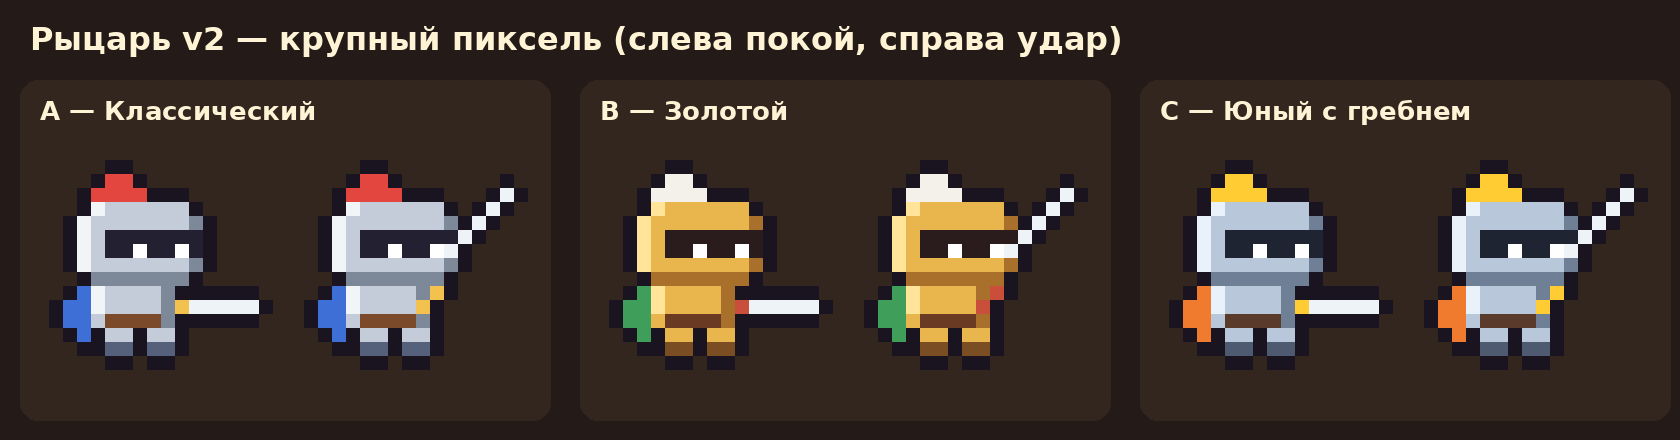
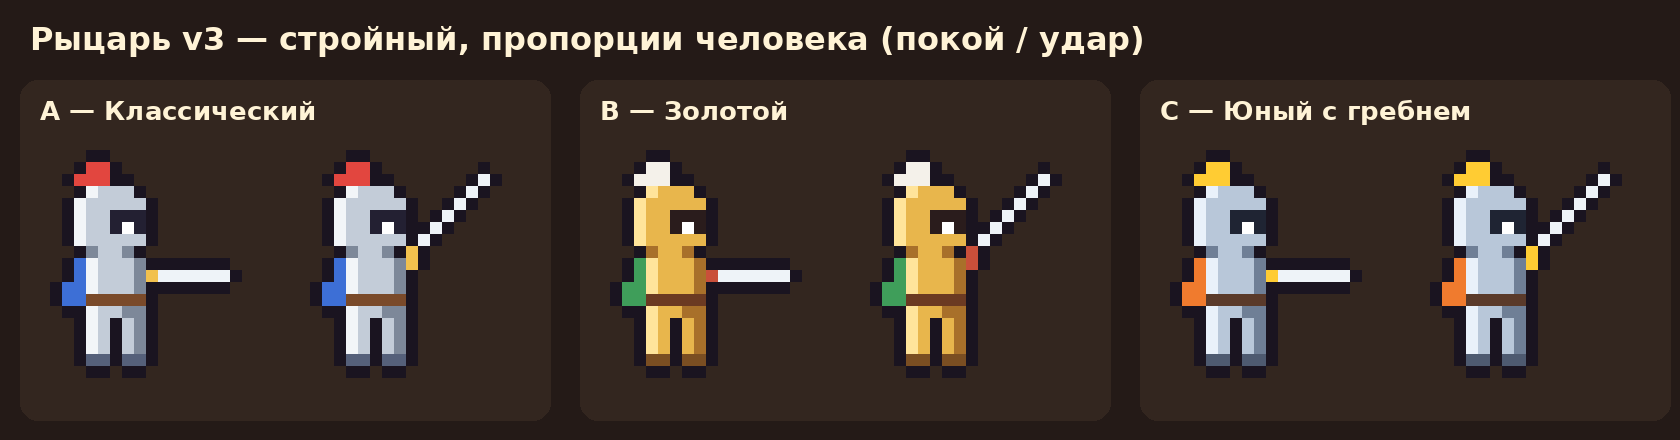
Concepts v3: slimmer human-proportioned knight, no-blush slimes, gold king
Claude-Session: https://claude.ai/code/session_01FaCWm51cQX9fpGLfrEeguQ

diff --git a/tools/concepts.py b/tools/concepts.py
@@ -47,34 +47,42 @@ def up(img, s):
 
 # ---------------------------------------------------------------- knight (13 px tall)
 KNIGHT_IDLE = [
-    "....pp..........",
-    "...pppp.........",
-    "...Lssssss......",
-    "..Lsssssssd.....",
-    "..Lsvvvvvvv.....",
-    "..Lsvvwvvwv.....",
-    "..Lsssssssd.....",
-    "...ddddddd......",
-    "..cLssssd.......",
-    ".ccLssssdhbbbbb.",
-    ".ccsBBBBd.......",
-    "..c.ss.ss.......",
-    "....gg.gg.......",
+    "..pp...........",
+    ".ppp...........",
+    "..Lsss.........",
+    ".Lsssss........",
+    ".Lssvvv........",
+    ".Lssvwv........",
+    ".Lsssss........",
+    "..dssd.........",
+    ".cLsssd........",
+    ".cLsssdhbbbbbb.",
+    "ccLsssd........",
+    "ccBBBBB........",
+    "..Lssdd........",
+    "..Ls.sd........",
+    "..Ls.sd........",
+    "..Ls.sd........",
+    "..gg.gg........",
 ]
 KNIGHT_SWING = [
-    "....pp..........",
-    "...pppp.......b.",
-    "...Lssssss...b..",
-    "..Lsssssssd.b...",
-    "..Lsvvvvvvvb....",
-    "..Lsvvwvvwb.....",
-    "..Lsssssssd.....",
-    "...ddddddd......",
-    "..cLssssdh......",
-    ".ccLssssh.......",
-    ".ccsBBBBd.......",
-    "..c.ss.ss.......",
-    "....gg.gg.......",
+    "..pp...........",
+    ".ppp.........b.",
+    "..Lsss......b..",
+    ".Lsssss....b...",
+    ".Lssvvv...b....",
+    ".Lssvwv..b.....",
+    ".Lsssss.b......",
+    "..dssd.h.......",
+    ".cLsssdh.......",
+    ".cLsssd........",
+    "ccLsssd........",
+    "ccBBBBB........",
+    "..Lssdd........",
+    "..Ls.sd........",
+    "..Ls.sd........",
+    "..Ls.sd........",
+    "..gg.gg........",
 ]
 KNIGHTS = {
     "A": ("A — Классический", dict(p="#e2463f", L="#f2f5f8", s="#c3ccd8", d="#7d8899", v="#232032", w="#ffffff",
@@ -106,7 +114,7 @@ SLIME_B = [
     "..xLxxxx..",
     ".xLxxxxxx.",
     ".xxexxexx.",
-    "xrxexxexrx",
+    "xxxexxexxx",
     "xxxxmmxxxx",
     "DDDDDDDDDD",
 ]
@@ -322,12 +330,12 @@ def scene(cfg, kn="A", seed=11):
 
     # ---- actors
     actors = Image.new("RGBA", (W, H), (0, 0, 0, 0))
-    actors.alpha_composite(knight(kn, "swing"), (44, 97))
-    actors.alpha_composite(slime("green"), (70, 103))
-    actors.alpha_composite(slime("pink"), (110, 71))
-    actors.alpha_composite(slime("purple"), (150, 103))
+    actors.alpha_composite(knight(kn, "swing"), (44, 93))
+    actors.alpha_composite(slime("green", "B"), (70, 102))
+    actors.alpha_composite(slime("pink", "B"), (110, 70))
+    actors.alpha_composite(slime("purple", "B"), (150, 102))
     actors.alpha_composite(slime("purple", "mini"), (164, 106))
-    actors.alpha_composite(slime("green"), (196, 47))
+    actors.alpha_composite(slime("green", "B"), (196, 46))
     actors.alpha_composite(flag(KNIGHTS[kn][1]["c"]), (228, 99))
     for cx, cy, col in [(128, 68, "pink"), (136, 98, "green"), (186, 42, "purple"), (96, 66, "green")]:
         actors.alpha_composite(crystal(col), (cx, cy))
@@ -352,44 +360,39 @@ def label(d, xy, text, size=26, fill="#fff3d6"):
 
 
 def sheet_knights():
-    S = 14
+    S = 12
     sh = Image.new("RGBA", (1680, 440), C("#241a17"))
     d = ImageDraw.Draw(sh)
-    label(d, (30, 20), "Рыцарь v2 — крупный пиксель (слева покой, справа удар)", 32)
+    label(d, (30, 20), "Рыцарь v3 — стройный, пропорции человека (покой / удар)", 32)
     for i, k in enumerate(KNIGHTS):
         x0 = 30 + i * 560
         d.rounded_rectangle([x0 - 10, 80, x0 + 520, 420], 18, fill=C("#33261f"))
         label(d, (x0 + 10, 95), KNIGHTS[k][0], 26)
-        sh.alpha_composite(up(knight(k, "idle"), S), (x0 + 5, 160))
-        sh.alpha_composite(up(knight(k, "swing"), S), (x0 + 260, 160))
+        sh.alpha_composite(up(knight(k, "idle"), S), (x0 + 20, 150))
+        sh.alpha_composite(up(knight(k, "swing"), S), (x0 + 280, 150))
     sh.save(os.path.join(OUT, "01_knight_variants.png"))
 
 
 def sheet_slimes():
-    sh = Image.new("RGBA", (1680, 760), C("#241a17"))
+    sh = Image.new("RGBA", (1680, 640), C("#241a17"))
     d = ImageDraw.Draw(sh)
-    label(d, (30, 20), "Слаймы v2 — меньше и пиксельнее  ·  Король-слайм", 32)
+    label(d, (30, 20), "Слаймы v3 — с хохолком, без румянца  ·  Король золотой", 32)
     S = 16
-    for r, style in enumerate("AB"):
-        y0 = 90 + r * 210
-        label(d, (30, y0), "Стиль A — круглая капля" if style == "A" else "Стиль B — с хохолком и румянцем", 24)
-        for i, c in enumerate(SLIMES):
-            sh.alpha_composite(up(slime(c, style), S), (40 + i * 220, y0 + 45))
-    label(d, (30, 520), "Мини-слайм (фиолетовый делится на двух таких)", 24)
-    sh.alpha_composite(up(slime("purple", "mini"), S), (40, 570))
-    sh.alpha_composite(up(slime("purple", "mini"), S), (190, 570))
-    for i, kind in enumerate(("gold", "rainbow")):
-        x0 = 760 + i * 460
-        label(d, (x0, 90), "Король: золотой" if kind == "gold" else "Король: радужный", 24)
-        sh.alpha_composite(up(king(kind), 17), (x0, 150))
-    label(d, (760, 500), "Масштаб в игре", 24)
-    row = Image.new("RGBA", (80, 20), (0, 0, 0, 0))
-    row.alpha_composite(knight("A"), (0, 5))
-    row.alpha_composite(slime("green"), (18, 11))
-    row.alpha_composite(slime("pink"), (30, 11))
-    row.alpha_composite(slime("purple"), (42, 11))
-    row.alpha_composite(king("gold"), (56, 4))
-    sh.alpha_composite(up(row, 10), (760, 540))
+    for i, c in enumerate(SLIMES):
+        sh.alpha_composite(up(slime(c, "B"), S), (40 + i * 220, 110))
+    label(d, (30, 330), "Мини-слайм (фиолетовый делится на двух)", 24)
+    sh.alpha_composite(up(slime("purple", "mini"), S), (40, 380))
+    sh.alpha_composite(up(slime("purple", "mini"), S), (190, 380))
+    label(d, (760, 90), "Король-слайм: золотой", 24)
+    sh.alpha_composite(up(king("gold"), 17), (760, 140))
+    label(d, (760, 450), "Масштаб в игре", 24)
+    row = Image.new("RGBA", (84, 22), (0, 0, 0, 0))
+    row.alpha_composite(knight("A"), (0, 3))
+    row.alpha_composite(slime("green", "B"), (18, 12))
+    row.alpha_composite(slime("pink", "B"), (31, 12))
+    row.alpha_composite(slime("purple", "B"), (44, 12))
+    row.alpha_composite(king("gold"), (58, 6))
+    sh.alpha_composite(up(row, 7), (760, 480))
     sh.save(os.path.join(OUT, "02_slimes_and_king.png"))
 
 
